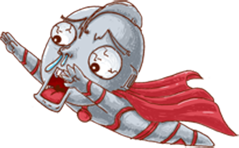
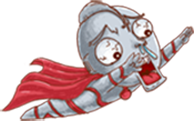
调整了下图片

diff --git a/src/avoid/gameScene/gameLayer/Ultraman.js b/src/avoid/gameScene/gameLayer/Ultraman.js
@@ -11,7 +11,7 @@ define([
         _gameLayer: null,
         _leftX: 0,
         _rightX: 0,
-        _flyY: 271,
+        _flyY: 209,
 
         ctor: function (direction, speed, gameLayer) {
             this._super(resourceFileMap.avoid.ultraman);
@@ -31,10 +31,10 @@ define([
 
             self.attr({ y: self._flyY });
             if (self._direction === 'right') {
-                self.attr({ x: self._leftX, flippedX: true }); //图片默认是向左的，向右时flip一下
+                self.attr({ x: self._leftX }); //图片默认是向左的，向右时flip一下
                 moveAction = new cc.MoveTo(time, self._rightX, self.y);
             } else if (self._direction === 'left') {
-                self.attr({ x: self._rightX });
+                self.attr({ x: self._rightX, flippedX: true });
                 moveAction = new cc.MoveTo(time, self._leftX, self.y);
             }
 
@@ -47,7 +47,7 @@ define([
             );
         },
         jump: function () {
-            var distance = 900;
+            var distance = 700;
             var height = 300;
             var time = distance / this._speed;
             this.runAction(new cc.JumpBy(time, {x: 0, y: 0}, height, 1));
